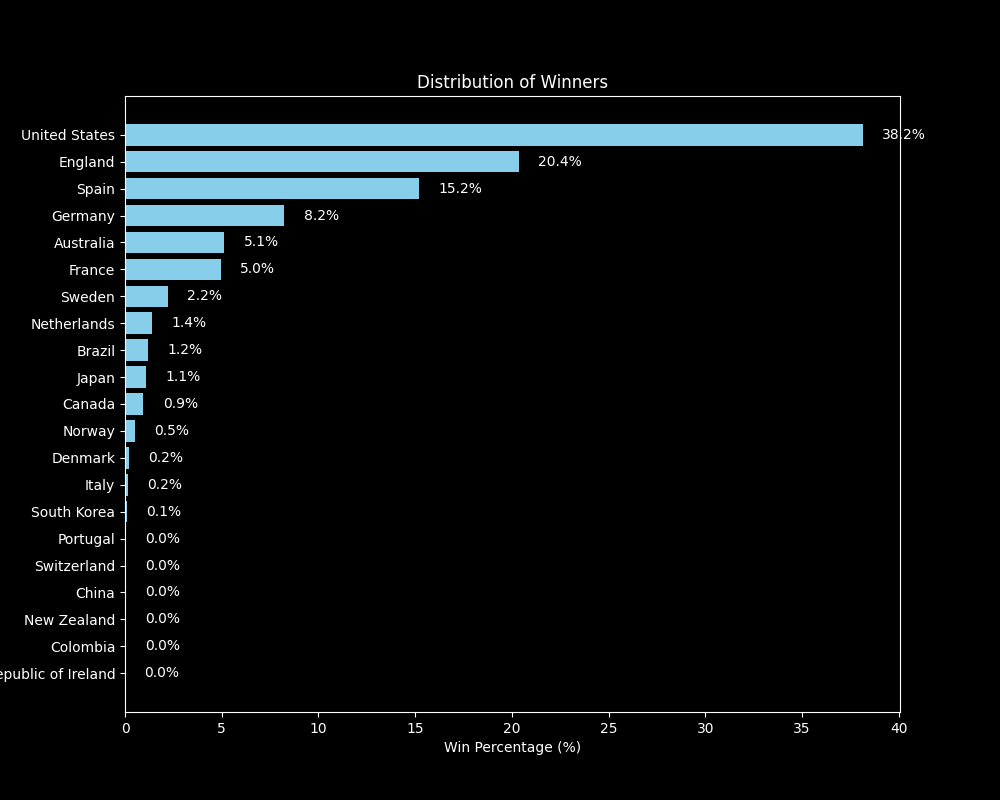
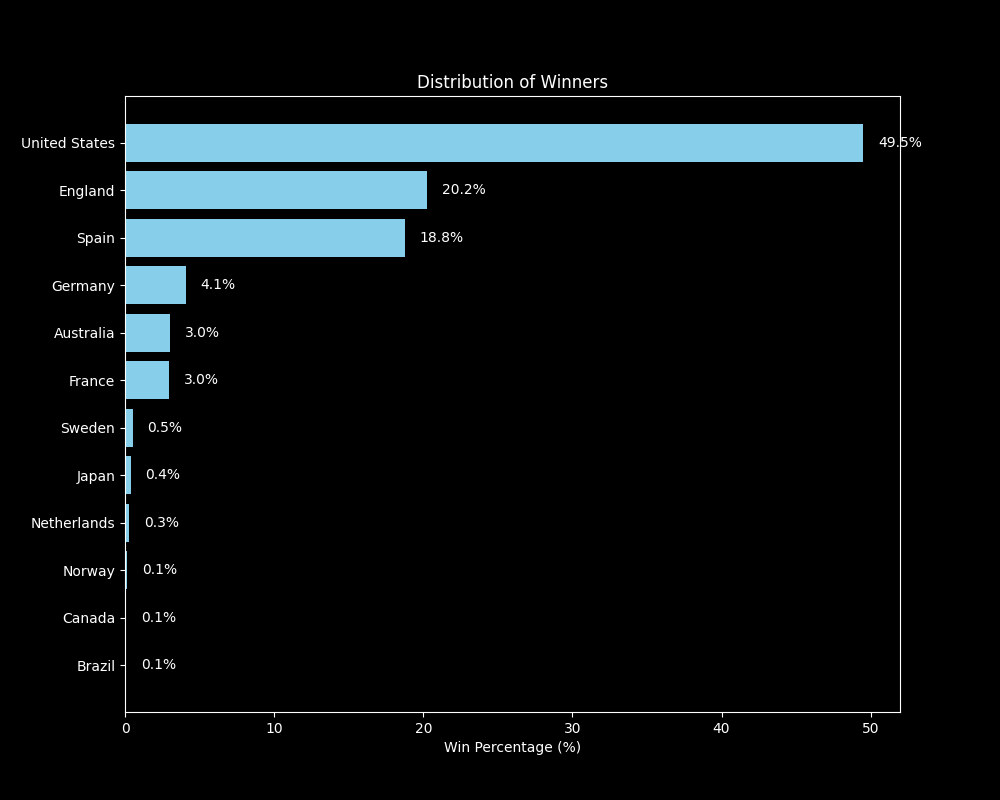
fix

Changed region(s): [[0.0, 0.1562, 0.93, 0.875], [0.868, 0.9062, 0.899, 0.9375], [0.403, 0.9062, 0.434, 0.9375]]

diff --git a/src/world_cup_simulation.py b/src/world_cup_simulation.py
@@ -1,4 +1,3 @@
-
 import numpy as np
 import pandas as pd
 from scipy.stats import logistic
@@ -44,43 +43,74 @@ def simulate_group(group):
                 standings.loc[j, "points"] += 1
     return standings.sort_values(["points", "goal_difference"], ascending=[False, False])
 
+def simulate_knockout_stage(match_setup, teams):
+    winners = []
+    for match in match_setup:
+        team1 = teams.loc[teams["team"] == match[0]]
+        team2 = teams.loc[teams["team"] == match[1]]
+        outcome, _ = simulate_match(team1, team2)
+        if outcome >= 0.5:
+            winners.append(match[0])
+        else:
+            winners.append(match[1])
+    return winners
+
 def simulate_tournament(teams):
     group_winners = []
+    group_runners_up = []
     for group_name, group in teams.groupby("group"):
         standings = simulate_group(group)
         group_winners.append(standings.iloc[0]["team"])
-        group_winners.append(standings.iloc[1]["team"])
+        group_runners_up.append(standings.iloc[1]["team"])
 
-    np.random.shuffle(group_winners)
-    while len(group_winners) > 1:
-        team1 = teams.loc[teams["team"] == group_winners[0]]
-        team2 = teams.loc[teams["team"] == group_winners[1]]
-        outcome, _ = simulate_match(team1, team2)
-        if outcome >= 0.5:
-            del group_winners[1]
-        else:
-            del group_winners[0]
-    return group_winners[0]
+    round_of_16 = [
+        [group_winners[0], group_runners_up[2]],  # 1st Group A vs 2nd Group C
+        [group_winners[2], group_runners_up[0]],  # 1st Group C vs 2nd Group A
+        [group_winners[4], group_runners_up[6]],  # 1st Group E vs 2nd Group G
+        [group_winners[6], group_runners_up[4]],  # 1st Group G vs 2nd Group E
+        [group_winners[1], group_runners_up[3]],  # 1st Group B vs 2nd Group D
+        [group_winners[3], group_runners_up[1]],  # 1st Group D vs 2nd Group B
+        [group_winners[5], group_runners_up[7]],  # 1st Group F vs 2nd Group H
+        [group_winners[7], group_runners_up[5]]   # 1st Group H vs 2nd Group F
+    ]
 
-# Read the data
+    winners_round_of_16 = simulate_knockout_stage(round_of_16, teams)
+
+    quarterfinals = [
+        [winners_round_of_16[0], winners_round_of_16[2]],
+        [winners_round_of_16[1], winners_round_of_16[3]],
+        [winners_round_of_16[4], winners_round_of_16[6]],
+        [winners_round_of_16[5], winners_round_of_16[7]]
+    ]
+
+    winners_quarterfinals = simulate_knockout_stage(quarterfinals, teams)
+
+    semifinals = [
+        [winners_quarterfinals[0], winners_quarterfinals[1]],
+        [winners_quarterfinals[2], winners_quarterfinals[3]]
+    ]
+
+    winners_semifinals = simulate_knockout_stage(semifinals, teams)
+
+    finals = [winners_semifinals[0], winners_semifinals[1]]
+
+    winner_final = simulate_knockout_stage([finals], teams)[0]
+
+    return winner_final
+
 teams = pd.read_csv('2023-world-cup-predictions/data/wwc2023.csv')
 
-# Number of simulations
+
 n_simulations = 10000
 
-# Simulate tournament
+
 results = [simulate_tournament(teams) for _ in range(n_simulations)]
-
-# Count the number of times each team won
 win_counts = Counter(results)
-
-# Convert to a DataFrame for easier viewing
 win_counts_df = pd.DataFrame.from_dict(win_counts, orient='index', columns=['wins']).reset_index()
 win_counts_df.rename(columns={'index': 'team'}, inplace=True)
 win_counts_df = win_counts_df.sort_values(by='wins', ascending=False)
-
-# Convert wins to percentages
 win_counts_df['wins'] = win_counts_df['wins'] / n_simulations * 100
+
 
 # Plot distribution of winners
 plt.style.use('dark_background')

diff --git a/README.md b/README.md
@@ -46,7 +46,7 @@ The tournament simulation is run multiple times to generate a distribution of po
 
 ## Results
 
-The results of the simulation are a list of the winners of each simulated tournament. The distribution of winners can be visualized with a bar plot, with the x-axis representing the number of wins and the y-axis representing the teams.
+The results of the simulation is the distributiont of the winners of each simulated tournament. 
 
 
 ![Simulated tournament wins](<https://github.com/schwarzpat/2023-world-cup-predictions/blob/main/figures/Figure_2.png>)
